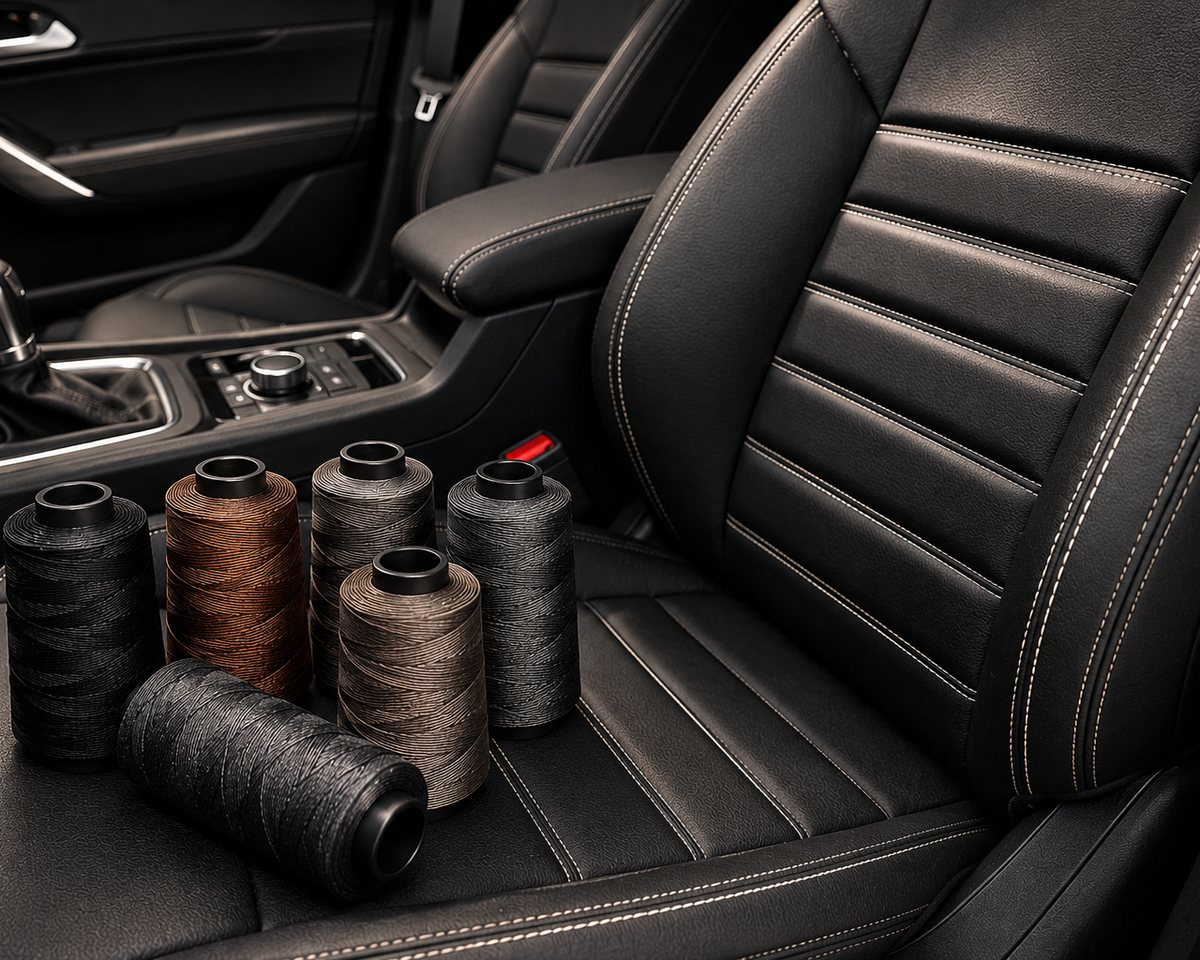
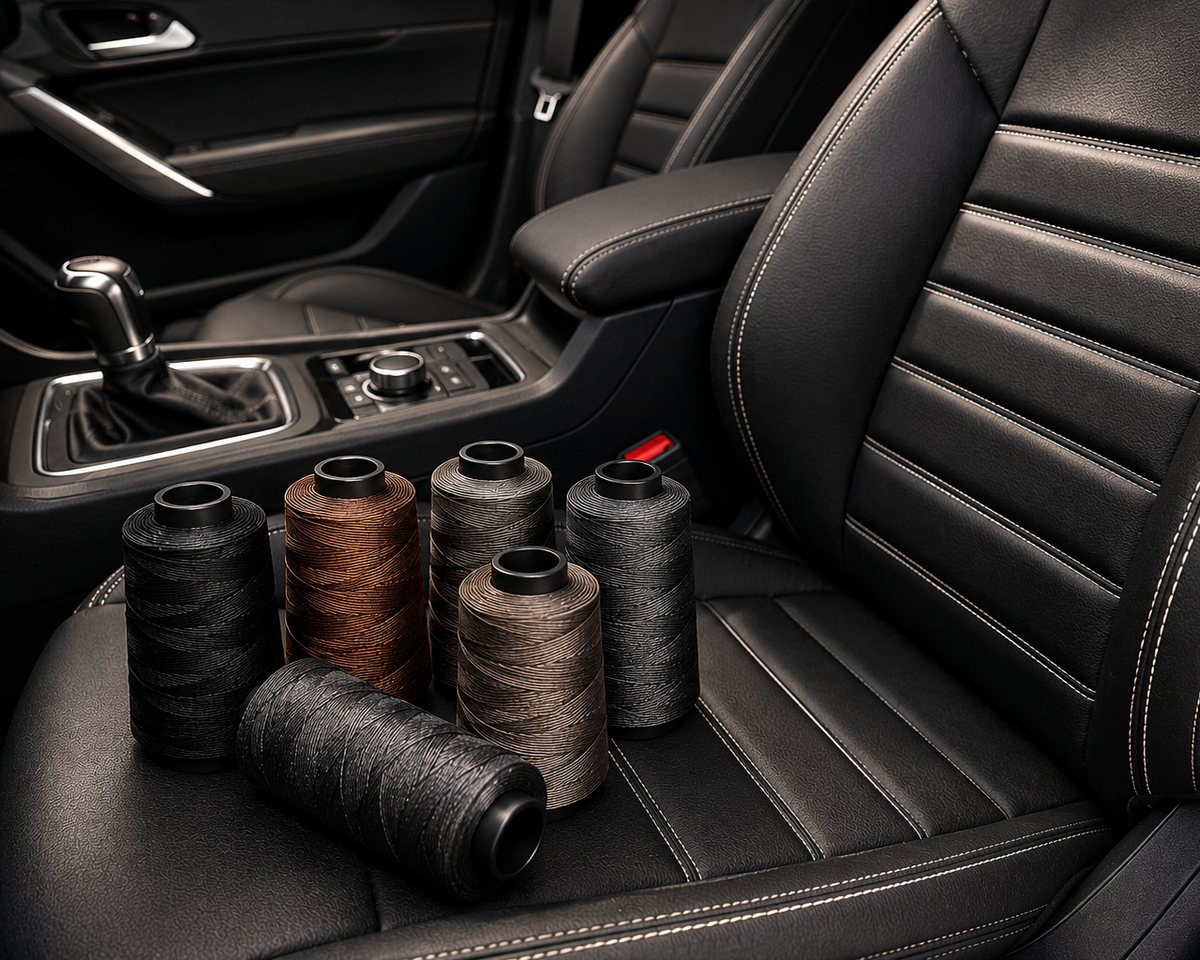
Complementos image: keep full left side (left-anchored crop + object-position)

diff --git a/index.html b/index.html
@@ -30,7 +30,7 @@
   <!-- Manual de Normas: The Seasons (titles/body, via Adobe Fonts) + Lexend Zetta (labels) -->
   <link rel="stylesheet" href="https://use.typekit.net/mpo0vhn.css">
   <link href="https://fonts.googleapis.com/css2?family=Lexend+Zetta:wght@300;400;500&display=swap" rel="stylesheet">
-  <link rel="stylesheet" href="styles.css?v=37">
+  <link rel="stylesheet" href="styles.css?v=38">
   <noscript><style>
     .line-mask > .line, .hero__title .line, .reveal-lines .rl-word > span, [data-reveal] { opacity: 1 !important; transform: none !important; }
     .preloader { display: none !important; }
@@ -162,7 +162,7 @@
 
               <article class="reel__panel" data-i="2">
                 <div class="reel__media" data-cursor>
-                  <img src="assets/collection-03.jpg?v=2" alt="Complementos" loading="lazy" decoding="async">
+                  <img src="assets/collection-03.jpg?v=3" alt="Complementos" loading="lazy" decoding="async">
                 </div>
                 <div class="reel__caption">
                   <h3 class="reel__name" data-i18n="col2name">Complementos</h3>

diff --git a/contacto.html b/contacto.html
@@ -15,7 +15,7 @@
   <link rel="preconnect" href="https://fonts.gstatic.com" crossorigin>
   <link rel="stylesheet" href="https://use.typekit.net/mpo0vhn.css">
   <link href="https://fonts.googleapis.com/css2?family=Lexend+Zetta:wght@300;400;500&display=swap" rel="stylesheet">
-  <link rel="stylesheet" href="styles.css?v=37">
+  <link rel="stylesheet" href="styles.css?v=38">
 </head>
 <body>
   <header class="legal-header">

diff --git a/styles.css b/styles.css
@@ -325,6 +325,8 @@ body.is-ready .hero__row { opacity: 1; transform: none; }
   position: absolute; inset: 0; width: 100%; height: 100%; object-fit: cover;
   transform: scale(1.06); will-change: transform;
 }
+/* Complementos (threads) — keep the full left side in frame */
+.reel__panel[data-i="2"] .reel__media img { object-position: left center; transform-origin: left center; }
 .reel__caption { max-width: 42ch; }
 /* caption entrance — reveals once when the panel centres, then stays (no exit) */
 .reel__caption > * { opacity: 0; transform: translateY(30px); transition: opacity .9s var(--ease), transform .9s var(--ease); will-change: transform, opacity; }